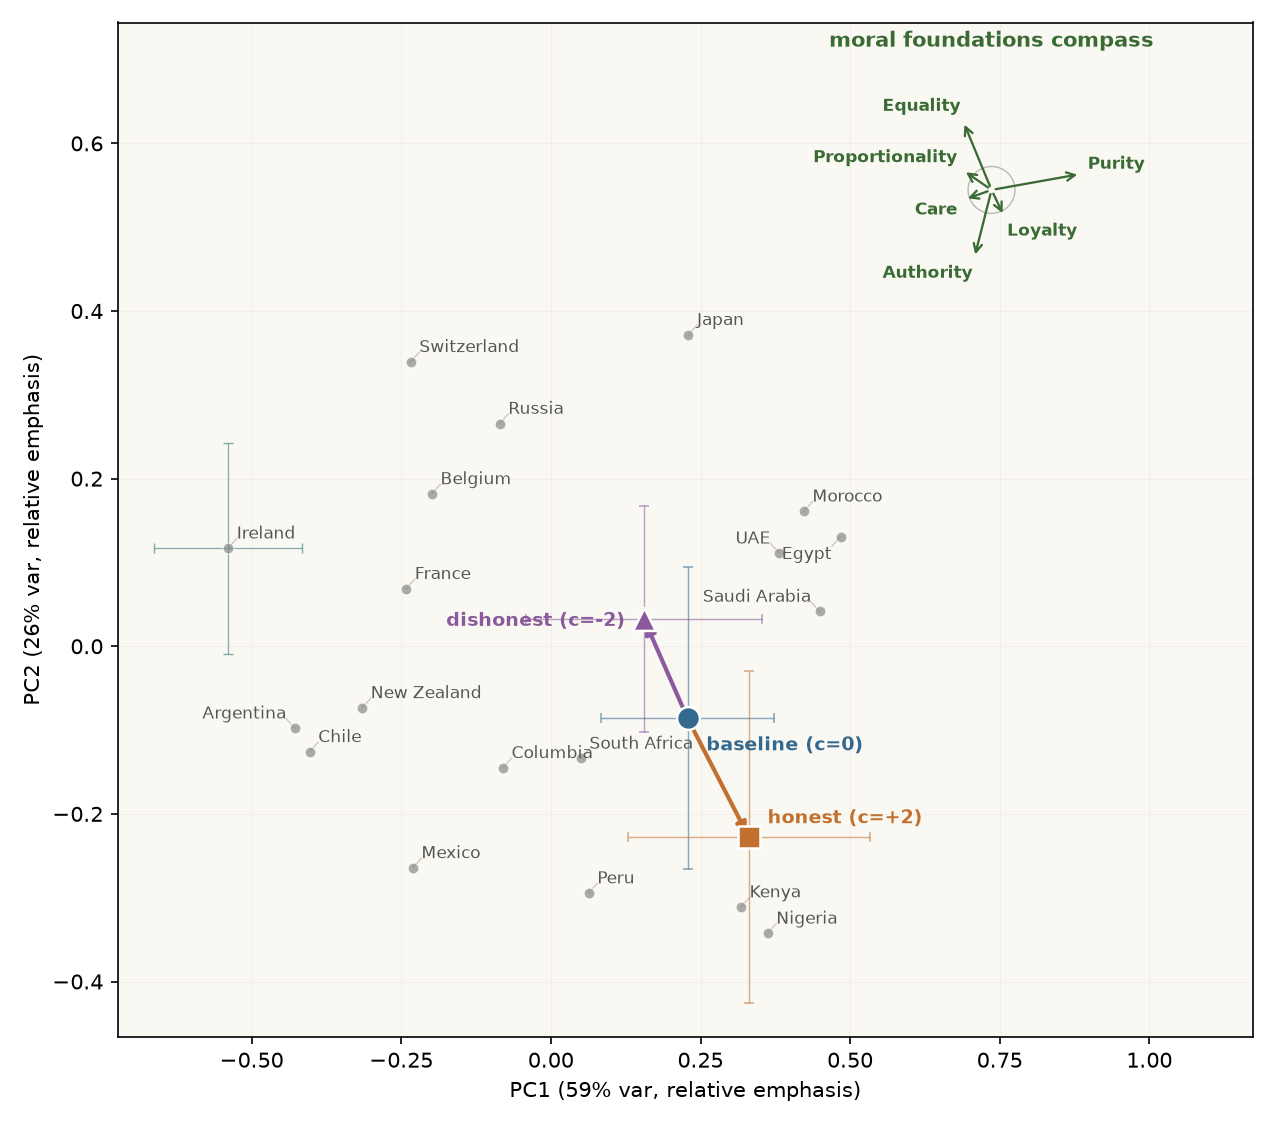
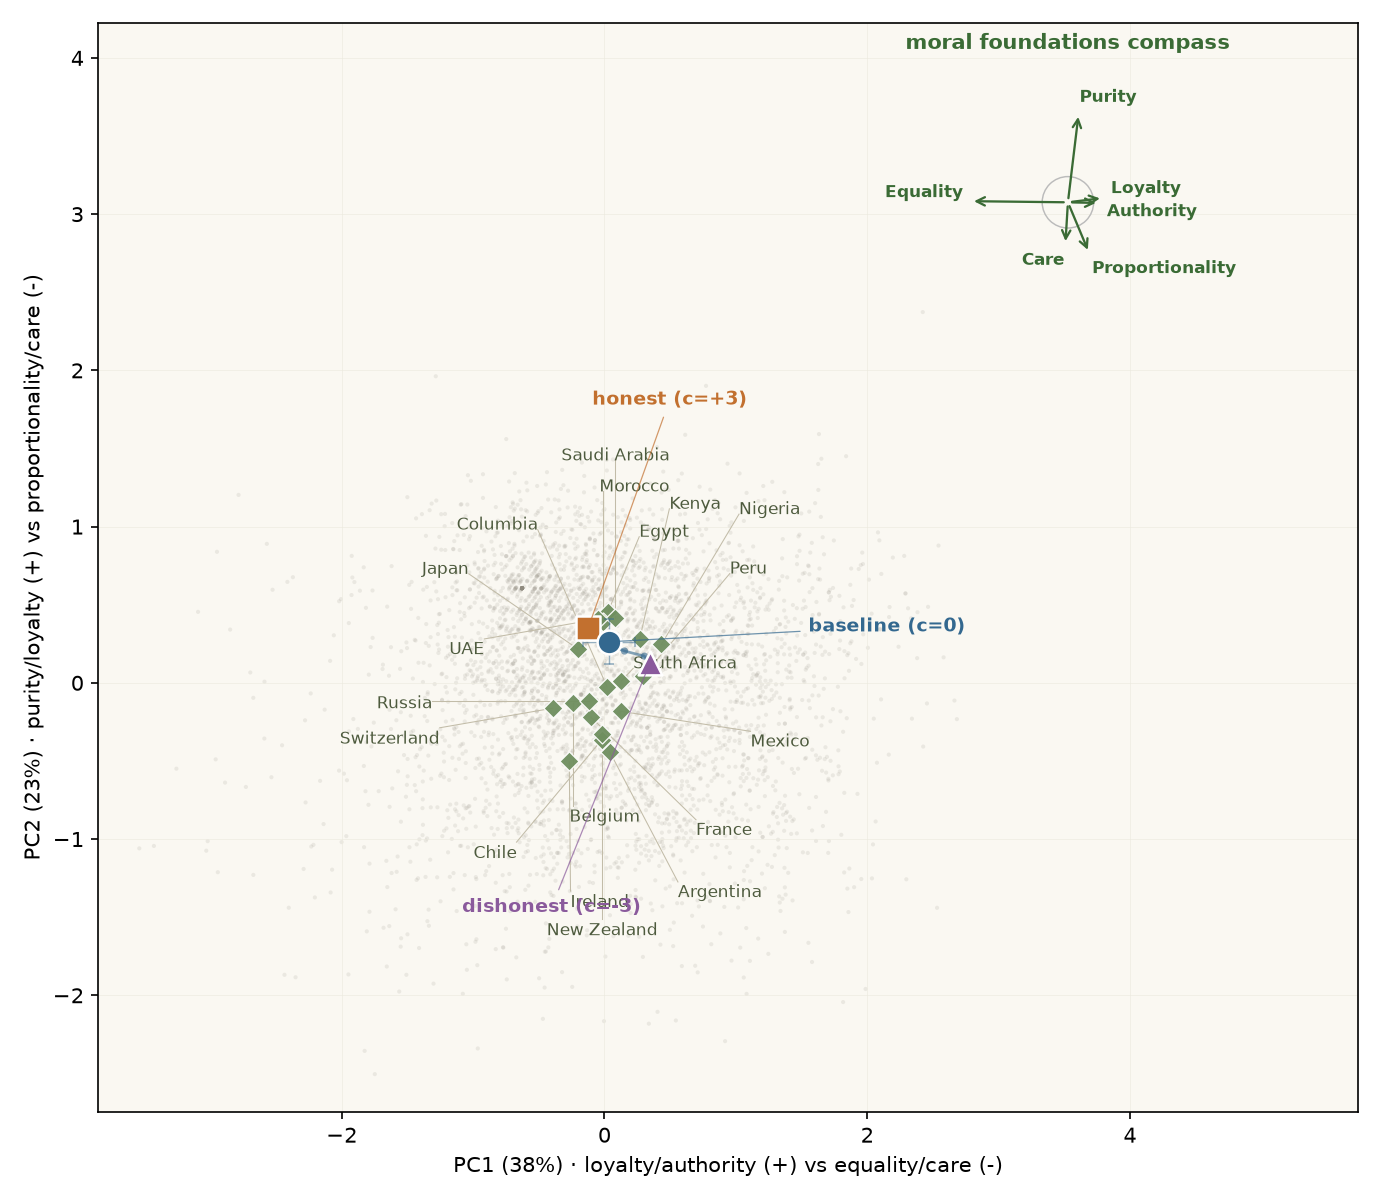
readme: add range-plot example + output-path scheme (map.png, range_<vector>.png); two plotting fns

diff --git a/README.md b/README.md
@@ -9,8 +9,21 @@ runs many questionnaires; the default is the Clifford moral-foundation vignettes
 The map places 19 human societies (grey, MFQ-2 means from Atari et al. 2023) and a local model
 (baseline plus steered poles) on the same relative-emphasis axes. The question the repo is built
 around: where does a model land relative to human cultures, and can we steer it across that space.
-This figure is produced by the downstream map step (moving into this repo); the engine here
-produces the per-model profile it plots.
+
+![Steered MFQ-2 profile range per steering vector vs the human envelope](docs/img/range_mfq2.png)
+
+The range plot is the second view: each steering vector's c-sweep (blue = negative pole, red =
+positive) over the grey human cross-cultural band, per foundation. It answers "does any steer push
+a foundation outside the human range" at a glance.
+
+These two are the engine's whole output surface, produced by exactly two plotting functions
+(`plot_ipsative_pca` and `plot_range`). The images above are example outputs (MFQ-2, regenerated
+each run; the maps move into this repo from the steering experiment). Output paths:
+
+```
+figures/<instrument>/map.{png,svg}             # ipsative PCA culture map (all vectors on one map)
+figures/<instrument>/range_<vector>.{png,svg}  # c-sweep range, one per steering vector
+```
 
 ## Quickstart
 